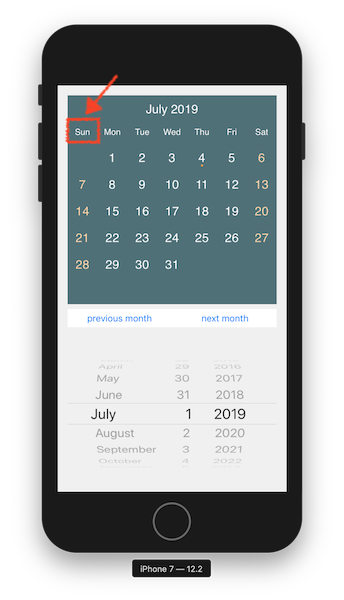
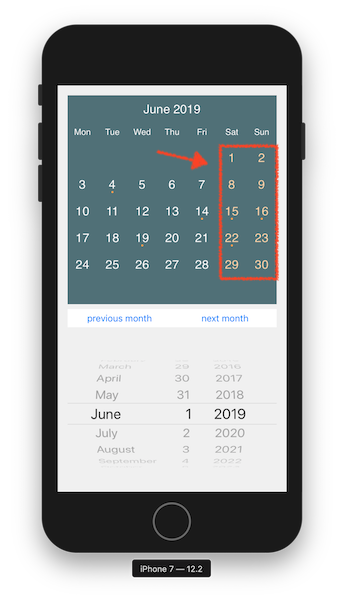
Update screenshots

diff --git a/KDCalendar/ViewController.swift b/KDCalendar/ViewController.swift
@@ -46,7 +46,7 @@ class ViewController: UIViewController, CalendarViewDataSource, CalendarViewDele
         CalendarView.Style.cellTextColorDefault     = UIColor.white
         CalendarView.Style.cellTextColorToday       = UIColor.orange
         
-        CalendarView.Style.firstWeekday             = .sunday
+        CalendarView.Style.firstWeekday             = .monday
         
         CalendarView.Style.locale                   = Locale(identifier: "en_US")
         
